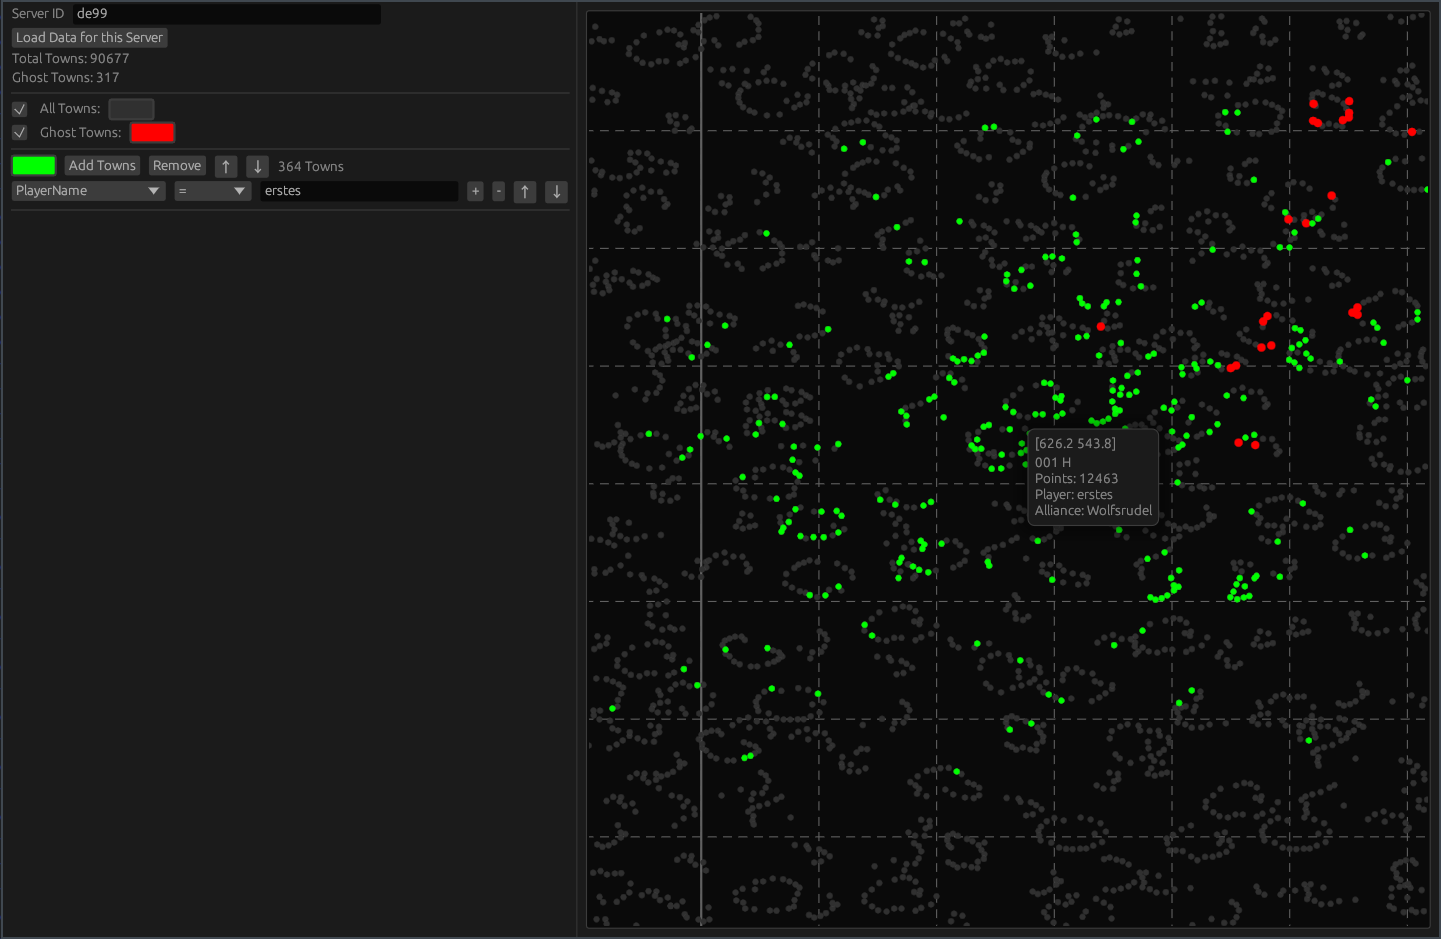
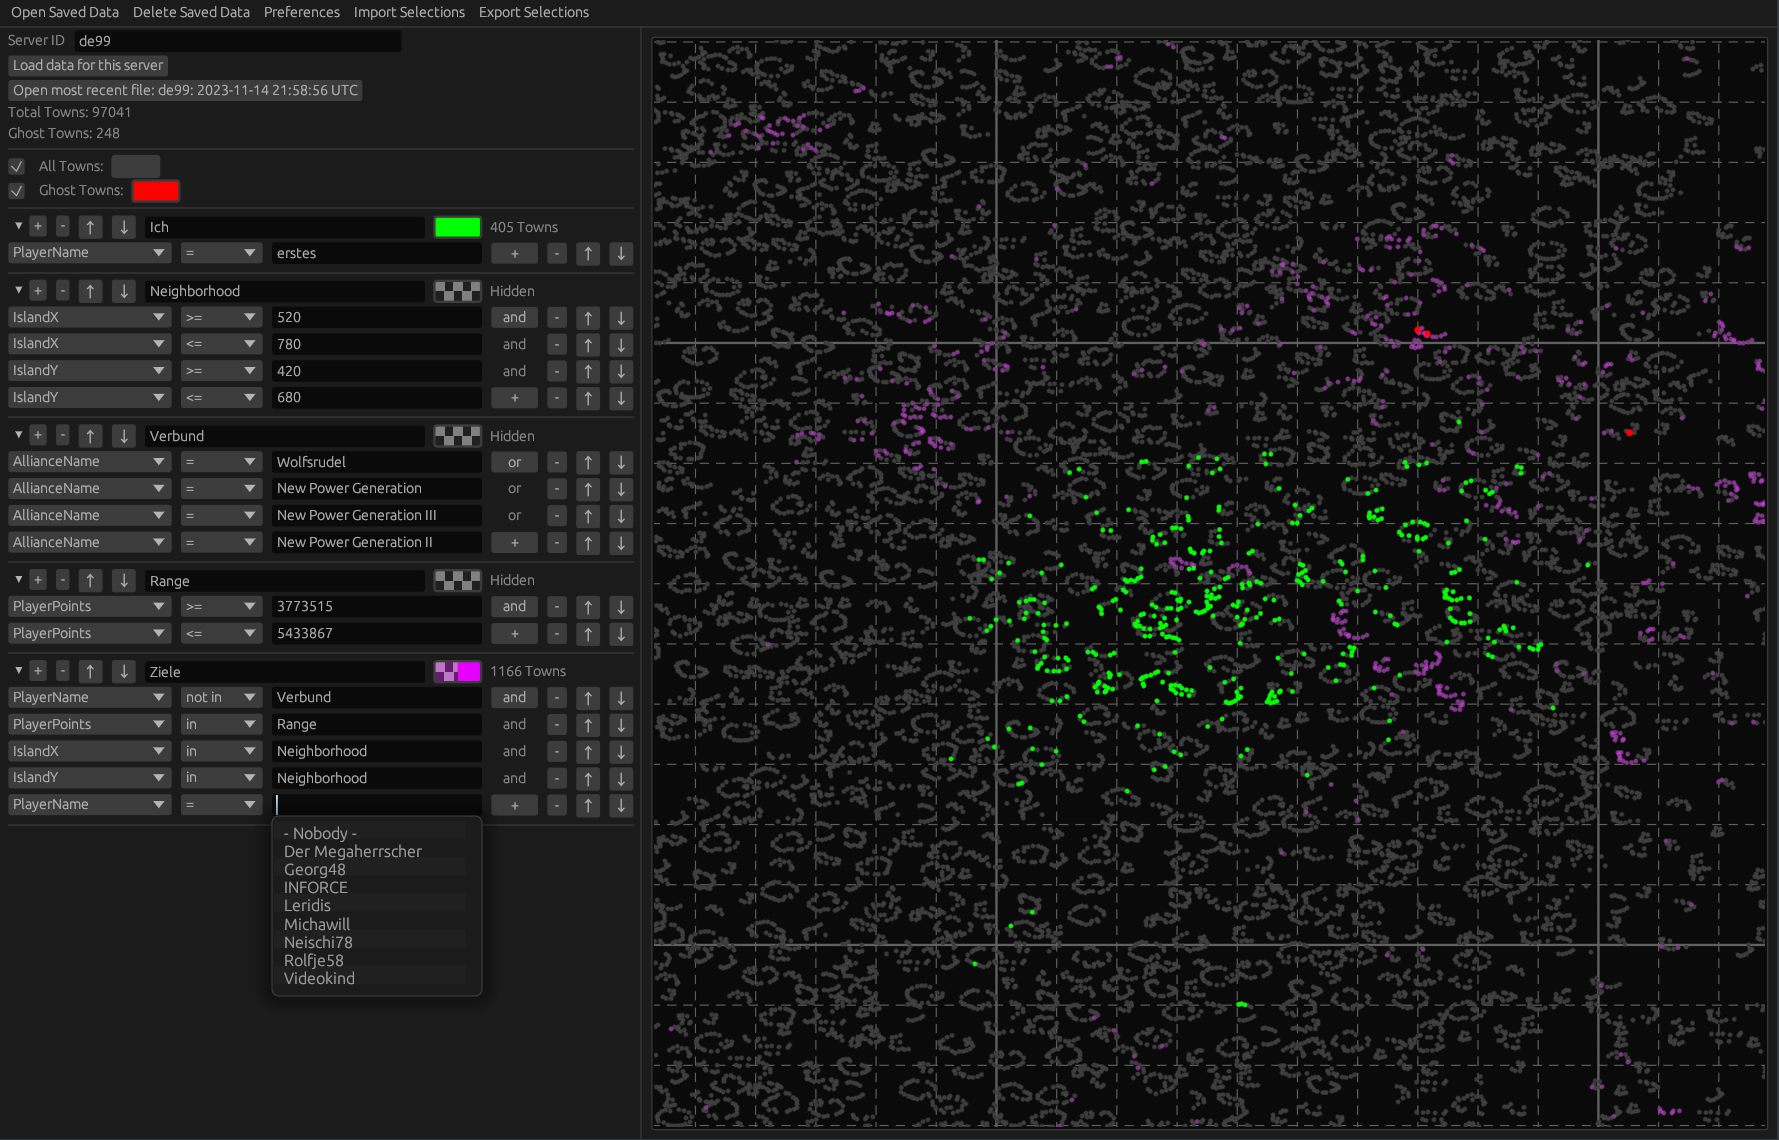
Update README
didn't do that in a while. Also add a much better showcase screenshot
that displays more of the features we now have.

Changed region(s): [[0.2186, 0.0, 0.9993, 1.0], [0.0, 0.0, 0.3435, 0.8647], [0.0, 0.9883, 0.0312, 1.0]]

diff --git a/README.md b/README.md
@@ -32,12 +32,6 @@ Stuff that I want to implement at some point:
 
 - Autodelete saved databases after a configurable amount of time (One Day, One Week, One Month). Maybe also give the option to never save any database locally? 
 
-- Selections that combine Constraints with OR instead of with AND. I can't think of a good way to mix AND and OR in one selection, but a selection purely with OR would be helpful for situations like showing all cities that are part of one of several alliances. In a way this is already possible by simply creating several selections with the same color, but it is tedious to do so.
-
-- Telemetry. I want to know which versions are in use and what kind of Selections the typical user uses. No personal information will be collected, I don't think I even need to log the IP addresses. But I don't even have a server set up at the moment, so idk when I get to this point.
-
-- Add "`Property` `exists in` `Other Selection`" Constraint. This would allow true flexibility in creating filters. Not yet sure how to implement that though. Nested SQL queries probably. But this could explode our backend complexity. Maybe I need to make trait that converts `[Constraint]` into `str` that represents the corresponding sql. And `Constraint` must be able to get the corresponding `Selection` from the name in the drop down menu.
-
 - Temporal comparison. A special mode to show the differences between two database states in addition to other constraints like we already have.
 
 - Export of the map in a better format for sharing. Can do this using App::post_rendering and Frame::Screenshot. Maybe.
